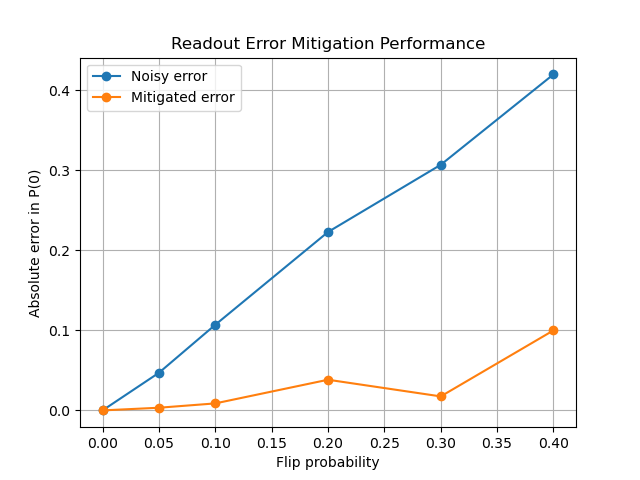
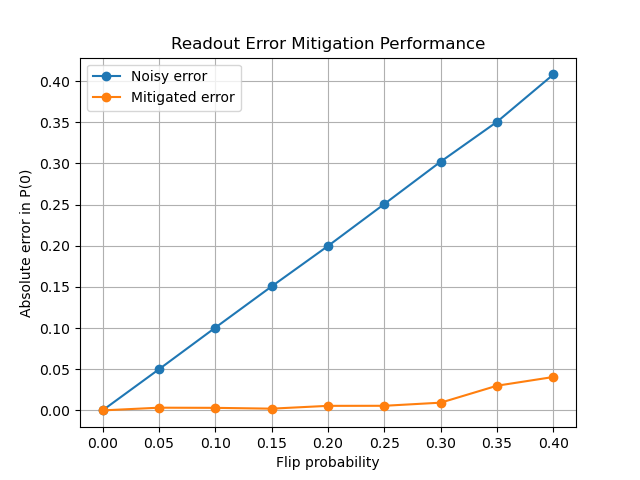
refactor(experiments): average noise sweep over repeated trials

diff --git a/experiments/scripts/run_noise_sweep.py b/experiments/scripts/run_noise_sweep.py
@@ -19,7 +19,7 @@ PROJECT_ROOT = Path(__file__).resolve().parents[2]
 RESULTS_PATH = PROJECT_ROOT / "experiments" / "results" / "noise_sweep_results.csv"
 
 
-def run_experiment(flip_probability: float, shots: int = 1000) -> tuple[float, float]:
+def run_experiment(flip_probability: float, shots: int = 5000) -> tuple[float, float]:
     """
     Run one noise-sweep experiment.
 
@@ -49,7 +49,7 @@ def run_experiment(flip_probability: float, shots: int = 1000) -> tuple[float, f
 
     ideal_circuit = build_single_qubit_measurement_circuit()
 
-    noise_model = MeasurementNoiseModel(flip_probability=flip_probability, seed=123)
+    noise_model = MeasurementNoiseModel(flip_probability=flip_probability, seed=None)
     noisy_counts = sample_noisy_counts(ideal_circuit, noise_model, shots)
     noisy_probs = normalize_counts(noisy_counts)
 
@@ -60,6 +60,47 @@ def run_experiment(flip_probability: float, shots: int = 1000) -> tuple[float, f
     mitigated_error = abs(mitigated_probs.get("0", 0.0) - 1.0)
 
     return noisy_error, mitigated_error
+
+
+def average_experiment(
+    flip_probability: float,
+    shots: int,
+    repeats: int,
+) -> tuple[float, float]:
+    """
+    Average noisy and mitigated errors across repeated experiments.
+
+    Input(s)
+    --------
+    - flip_probability : float
+        Probability that a measured bit flips during readout.
+    - shots : int
+        Number of samples used in each repeated experiment.
+    - repeats : int
+        Number of independent repeated experiments to average.
+
+    Output(s)
+    ---------
+    - return_value : tuple[float, float]
+        Pair containing average noisy error and average mitigated error.
+    """
+    if not isinstance(repeats, int):
+        raise TypeError("repeats must be an integer.")
+    if repeats <= 0:
+        raise ValueError("repeats must be greater than 0.")
+
+    noisy_errors: list[float] = []
+    mitigated_errors: list[float] = []
+
+    for _ in range(repeats):
+        noisy_error, mitigated_error = run_experiment(flip_probability, shots)
+        noisy_errors.append(noisy_error)
+        mitigated_errors.append(mitigated_error)
+
+    return (
+        sum(noisy_errors) / repeats,
+        sum(mitigated_errors) / repeats,
+    )
 
 
 def save_results(
@@ -106,20 +147,25 @@ def main() -> None:
     - return_value : None
         Prints and saves a table comparing noisy and mitigated error.
     """
-    noise_levels = [0.0, 0.05, 0.1, 0.2, 0.3, 0.4]
-    shots = 1000
+    noise_levels = [0.0, 0.05, 0.1, 0.15, 0.2, 0.25, 0.3, 0.35, 0.4]
+    shots = 5000
+    repeats = 5
     results: list[dict[str, float]] = []
 
     print("Flip Prob | Noisy Error | Mitigated Error")
     print("------------------------------------------")
 
     for flip_probability in noise_levels:
-        noisy_error, mitigated_error = run_experiment(flip_probability, shots)
+        noisy_error, mitigated_error = average_experiment(
+            flip_probability,
+            shots,
+            repeats,
+        )
         results.append(
             {
                 "flip_probability": flip_probability,
-                "noisy_error": noisy_error,
-                "mitigated_error": mitigated_error,
+                "noisy_error": round(noisy_error, 6),
+                "mitigated_error": round(mitigated_error, 6),
             }
         )
         print(
